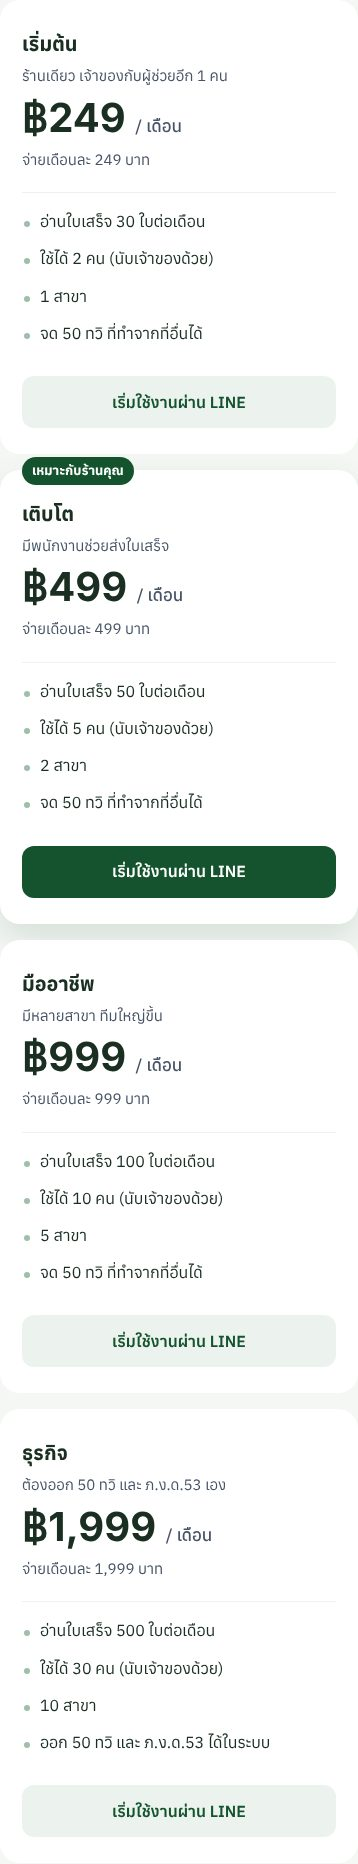
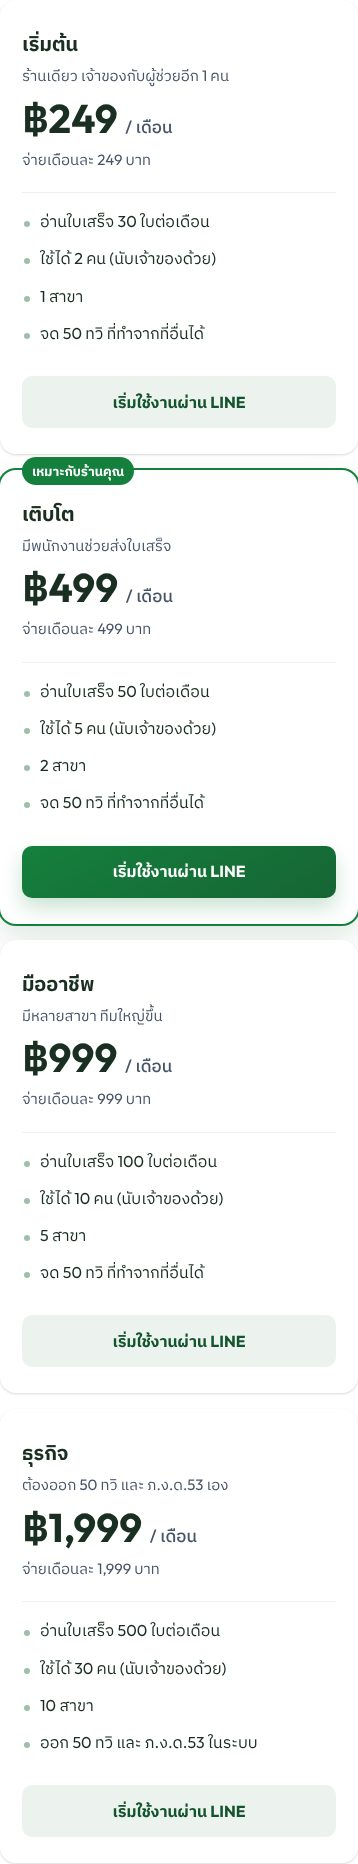
docs: v3 website uses the app's fonts, buttons, cards and Thai wrapping
Moves the prototype onto the app's own design techniques: Outfit with
IBM Plex Sans Thai, unit-level no-wrap for amounts and dates, the
gradient primary button, shadow-edged white cards and the solid
segmented tabs. Secondary buttons stay borderless at the owner's
request. Copy deck, README, memory and screenshots updated.

Claude-Session: https://claude.ai/code/session_01J7ScAcuHmAWY52w61WzGcF

diff --git a/docs/prototypes/mangmee-main-website/v3/README.md b/docs/prototypes/mangmee-main-website/v3/README.md
@@ -1,6 +1,6 @@
 # มั่งมีพลัส เว็บหลัก v3 — สรุปสำหรับเจ้าของ
 
-ทำเมื่อ 20 ตุลาคม 2569 ปรับรอบ 2–5 วันเดียวกัน เป็นต้นแบบเท่านั้น ยังไม่ได้ขึ้นเว็บจริง และไม่ได้แตะ official.mangmeeplus.com
+ทำเมื่อ 20 ตุลาคม 2569 ปรับรอบ 2–6 วันเดียวกัน เป็นต้นแบบเท่านั้น ยังไม่ได้ขึ้นเว็บจริง และไม่ได้แตะ official.mangmeeplus.com
 
 ## เปิดดูที่ไหน
 
@@ -86,6 +86,15 @@
   - ส่วนราคาย้ายการ์ดราคาขึ้นก่อนตัวช่วยเลือก ป้าย “เหมาะกับร้านคุณ” ไม่ดันราคาให้ไม่ตรงกันแล้ว
   - หน้าราคาบนมือถือเคยกว้างเกินจอ (660 px) เพราะข้อความซ่อนในตาราง แก้แล้ว
 - ภาพหน้าจอที่ใช้ตรวจอยู่ใน `docs/evidence/main-website-prototype-2026-10-20/v3/`
+
+### รอบ 6: ใช้เทคนิคเดียวกับระบบ
+
+- ฟอนต์เดียวกับแอป: IBM Plex Sans Thai (ไทย) + Outfit (ตัวเลขและอังกฤษ)
+- ตัดบรรทัดภาษาไทยแบบเดียวกับแอป: ยอดเงิน วันที่ เบอร์โทร ไม่ถูกตัดกลาง และไม่มีกฎที่ตัดคำไทยทั้งหน้า
+- ปุ่มหลักไล่สีเขียวพร้อมเงาบางแบบปุ่มในแอป
+- การ์ดเป็นพื้นขาว ใช้เงาบางวาดขอบ แบบหน้าแรกในแอป
+- แท็บและตัวเลือกที่เลือกแล้วเป็นพื้นเขียว แบบแท็บช่วงเวลาในแอป
+- ต่างจากแอปจุดเดียว: ปุ่มรองไม่มีเส้นขอบ ตามที่คุณขอ
 
 ## เรื่องที่รอคุณตัดสินใจ
 

diff --git a/docs/agent-memory/mangmee-main-website-prototype-2026-10-20.md b/docs/agent-memory/mangmee-main-website-prototype-2026-10-20.md
@@ -219,3 +219,16 @@ Decisions:
 Verification:
 - Chromium: home 1440 scrollWidth 1440, 390 scrollWidth 390; pricing 1440/390 no overflow after fix. Screenshots in ../evidence/main-website-prototype-2026-10-20/v3/.
 - Limits: renderer approximates the canvas runtime; fonts load from Google; no real device, zoom or screen-reader pass.
+
+## Revision 3f — app techniques on the website
+
+Status: Complete — prototype only.
+Trigger: Owner asked to use the same techniques as the system.
+
+Decisions:
+- Read apps/web/app/globals.css, design tokens and thai-ux-standard. Applied: font stack Outfit + IBM Plex Sans Thai; `.mangmee-unit` rule (units nowrap + tabular-nums, no global word-break); `.mangmee-btn-primary` gradient #15803D→#166534 with green shadow, radius 10; cards white with --shadow-theme-sm edges on a white page (owner rule 2026-10-15); segmented solid tabs (gray-100 track, brand-700 chosen); selected plan card 2px brand-700 like the app's package page.
+- Kept owner's earlier rule over the app for secondary buttons: borderless soft fill instead of the app's grey-bordered secondary.
+- Fixed new Plex line breaks: H1 "ให้ AI ช่วยอ่าน" kept together; ENTERPRISE line text "ออก 50 ทวิ และ ภ.ง.ด.53 ในระบบ".
+
+Verification:
+- Chromium render 1440/390: no horizontal overflow on home or pricing; tags balanced on 5 boards. Screenshots refreshed in ../evidence/main-website-prototype-2026-10-20/v3/.
